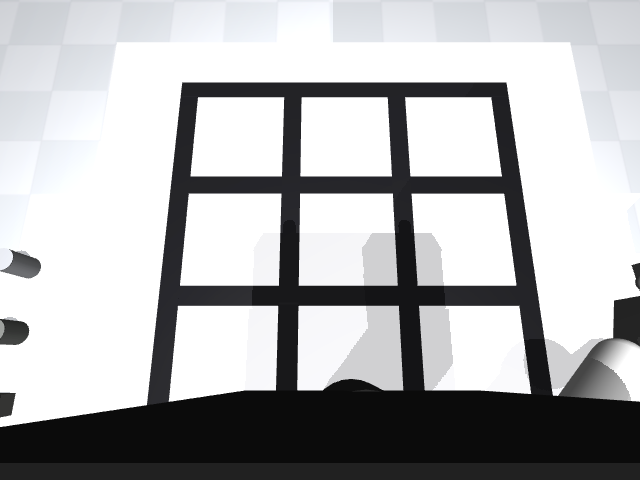
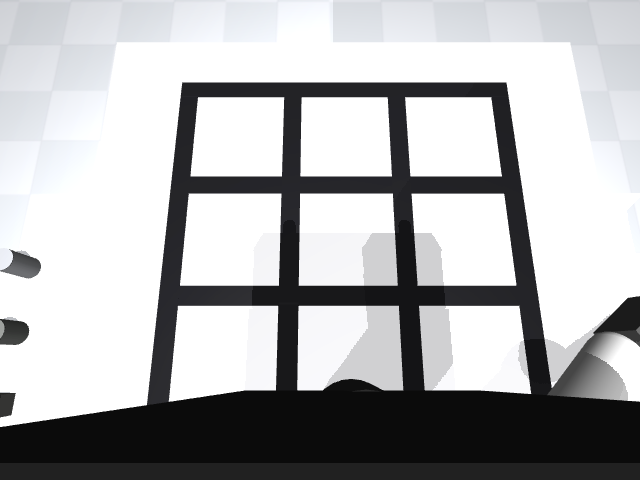
REST that stays shut; panel smoke; final evidence (#192)
The second October REST held its arm for the 10 s the search checked, but on
the live panel its gripper was at the open stop after 11 minutes: motors off,
the finger hangs open and creeps.  An open hand at rest is the wide hand the
footprint guard assumes away, so REST was searched a third time with a 120 s
gripper check: (10.5, 15, -55, -81, 84.5, -4.5, -17.5) holds shut for 10
minutes offline (rest_hold.py), and the forearm yaw is what keeps the finger
closed.  Column-3 footprint +1.8 / +12.0 / +20.8 cm.

LIFT/LOWER, WAVE and POINT re-flown from it (nothing moved), the REST-
dependent test values re-measured, the evidence regenerated, and the panel
smoke recorded (startup at REST, stow, wave, point; Reachy-Lab
trial-2026-10-18-issue192-panel-smoke).  place_sweep's report states its
cell count instead of a hard-coded "seven".

Changed region(s): [[0.8438, 0.625, 1.0, 0.8438], [0.9688, 0.5312, 1.0, 0.5938], [0.8125, 0.7188, 0.8438, 0.7812]]

diff --git a/src/reachy_ai/motion/rig_routes.py b/src/reachy_ai/motion/rig_routes.py
@@ -118,23 +118,28 @@ def pose(**kw) -> Dict[str, float]:
 # ── REST, October layout (#192) ──────────────────────────────────────────────
 #
 # The hand rests on the board's RIGHT MARGIN, outside the taped grid, as the
-# lab photos show the real gripper doing: on its palm and back, fingers at the
-# board's edge (tip at about (0.37, -0.37) in the scene; the outer tape border
-# is at y = -0.2286, the board's edge at -0.349), with the forearm along the
-# margin.
+# lab photos show the real gripper doing: on its palm and back, fingertips just
+# over the board's edge (tip at about (0.34, -0.40) in the scene; the outer
+# tape border is at y = -0.2286, the board's edge at -0.349), with the forearm
+# along the margin.
 #
 # FOUND BY LETTING GO OF THE ARM, NOT BY CHOOSING A POSE.  The arm is stored
 # here and the simulator starts here with the motors off, exactly like the
 # robot, so REST has to be a pose the arm STAYS in when nothing holds it.  An IK
 # pose on the margin with the elbow swung out slid off the board's edge in two
 # seconds.  This one is a settled pose: dropped motors-off in MuJoCo from many
-# starts on the margin, kept only where a second drop moved it by under 2 deg
-# and the gripper stayed shut, then scored against a soda can, blue cylinder,
-# red cube, pool cylinder, foam block and pool box standing on each column-3
-# cell.  Motors off for 10 s from here: under 1.3 deg of drift on any arm
-# joint, the gripper 3 deg off shut, and still.  The wrist roll rests on its
-# stop (44 deg, 1 deg inside); the shoulder roll does NOT lean on the +20.3 deg
-# stop (docs/adr/0010), so REST does not depend on that deviation.
+# starts on the margin, kept only where a second drop moved it by under 2 deg,
+# then dropped again for 120 s and kept only where the GRIPPER STAYED SHUT,
+# then scored against a soda can, blue cylinder, red cube, pool cylinder, foam
+# block and pool box standing on each column-3 cell.  Motors off for 10
+# minutes from here: the gross joints drift at most 1.3 deg, the gripper stays
+# on its shut stop, and the arm is still.  The forearm yaw (84.5 deg) is what
+# holds the hand shut: it turns the hand so gravity closes the finger.  A
+# REST whose finger hangs open creeps open over minutes (one did: +18 deg at
+# 5 s, -15 at 120 s, the open stop by 11 minutes), and an open hand on the
+# margin is the wide hand the footprint guard below assumes away.  The
+# shoulder roll does NOT lean on the +20.3 deg stop (docs/adr/0010), so REST
+# does not depend on that deviation.
 #
 # WITH THE HAND'S COLLISION BOXES (#192).  The first October REST rested on
 # the finger pad, and the hand's visual shell sank 38 mm into the board,
@@ -149,15 +154,15 @@ def pose(**kw) -> Dict[str, float]:
 #
 #     the footprint guard's own number (`footprint.route_footprint_clearances`,
 #     every leg of LOWER_TO_REST and LIFT_TO_PRESENT), one object on the cell:
-#         r1c3 +2.6 cm   r2c3 +7.4 cm   r3c3 +13.2 cm   (worst of six objects)
+#         r1c3 +1.8 cm   r2c3 +12.0 cm   r3c3 +20.8 cm   (worst of six objects)
 #     the August REST and its routes, at the August mount, same objects:
 #         r1c3 +2.3 cm   r2c3 -5.7 cm   r3c3 -9.4 cm    (every r2c3/r3c3 refused;
 #                                                      pool_box_3 on r2c3: -3.7)
 #
 # Numbers and the search: docs/reviews/2026-10-17-october-layout-192/.
-REST = pose(r_gripper=SHUT, r_shoulder_pitch=12.0, r_shoulder_roll=14.0,
-            r_arm_yaw=-54.5, r_elbow_pitch=-81.0, r_forearm_yaw=-5.5,
-            r_wrist_pitch=-21.5, r_wrist_roll=44.0)
+REST = pose(r_gripper=SHUT, r_shoulder_pitch=10.5, r_shoulder_roll=15.0,
+            r_arm_yaw=-55.0, r_elbow_pitch=-81.0, r_forearm_yaw=84.5,
+            r_wrist_pitch=-4.5, r_wrist_roll=-17.5)
 #: REST already has the hand shut.  The name is kept for callers that mean
 #: "rest, closed", and it is the same pose.
 REST_SHUT = REST
@@ -401,7 +406,7 @@ ROUTE_COMPATIBILITY: Tuple[RouteValidation, ...] = (
         "red_cube or blue_cylinder / soda_can / foam_block standing on r1c3 / "
         "r2c3 / r3c3, and as the approach of every WAVE and POINT flight "
         "below (12 flights). Arrived within 1.0 deg on the gross joints; no "
-        "object moved (0.0 mm); worst MJCF distance to any of them 2.7 cm "
+        "object moved (0.0 mm); worst MJCF distance to any of them 1.8 cm "
         "(blue_cylinder on r1c3). Only robot contacts: the forearm and the "
         "hand's palm and back on table_top, leaving REST.",
         mount=MOUNT_OCTOBER,
@@ -410,9 +415,10 @@ ROUTE_COMPATIBILITY: Tuple[RouteValidation, ...] = (
         "LOWER_TO_REST", "FWDCenterLabSivaPool",
         "2026-10-18 (#192, offline physics): PRESENT -> PRESENT_SHUT -> "
         "REST_OUT -> REST, the same layouts as LIFT_TO_PRESENT and the return "
-        "of every WAVE and POINT flight (12 flights). Arrived within 0.2 deg; "
-        "no object moved (0.0 mm); worst MJCF distance 2.7 cm. Only robot "
-        "contacts: the forearm and palm coming to rest on table_top.",
+        "of every WAVE and POINT flight (12 flights). Arrived within 0.3 deg; "
+        "no object moved (0.0 mm); worst MJCF distance 1.9 cm (blue_cylinder "
+        "on r1c3). Only robot contact: the forearm coming to rest on "
+        "table_top.",
         mount=MOUNT_OCTOBER,
     ),
     RouteValidation(
@@ -441,10 +447,12 @@ ROUTE_COMPATIBILITY: Tuple[RouteValidation, ...] = (
         "r1c1, r1c2 and r2c2); cell_r1c2 refused three times by the guard "
         "(foam_block: 4.8 cm on leg 5 of 6 under the 5 cm margin; "
         "blue_cylinder and soda_can before any motion). The object itself: "
-        "3 of 6 (the boxes, miss 0.6 cm); the three cylinders were stopped "
-        "by the escort's realised check on leg 6, the tube hand reading 0.1 "
-        "to 0.6 cm inside the object while the MJCF hand was 2.9 to 3.1 cm "
-        "clear, then flown back to PRESENT. NOTHING MOVED in any of the 69 "
+        "4 of 6 (the boxes and blue_cylinder, miss 0.6 cm); pool_cyl_1 and "
+        "soda_can were stopped by the escort's realised check on leg 6, the "
+        "tube hand reading 0.1 and 0.3 cm inside the object while the MJCF "
+        "hand was 3.0 to 3.1 cm clear, then flown back to PRESENT (an earlier "
+        "flight from the previous REST stopped blue_cylinder the same way, at "
+        "0.6 cm). NOTHING MOVED in any of the 69 "
         "pointings (0.0 mm), and the arm touched nothing but table_top at "
         "REST. TWO OR MORE OBJECTS IS NOT COVERED, and `_ability_available` "
         "still enforces that. August, for comparison: 8 of 9 empty-board "

diff --git a/tests/unit/test_arm_geometry_mjcf.py b/tests/unit/test_arm_geometry_mjcf.py
@@ -303,10 +303,10 @@ class TestTubeCoversMJCFHand:
     def test_the_tube_is_the_pose_own_roll_not_the_worst(self):
         """link_capsules sizes the tube for the pose's actual wrist roll."""
         present = [R.PRESENT[j] for j in R.ARM7]   # roll 0
-        rest = [R.REST[j] for j in R.ARM7]         # roll 44 (#192)
+        rest = [R.REST[j] for j in R.ARM7]         # roll -17.5 (#192)
         assert _tube(present, -45.0)[2] == pytest.approx(hand_radius(-45.0, 0.0))
-        assert _tube(rest, -45.0)[2] == pytest.approx(hand_radius(-45.0, 44.0))
-        assert _tube(rest, -45.0)[2] > _tube(present, -45.0)[2]
+        assert _tube(rest, -45.0)[2] == pytest.approx(hand_radius(-45.0, -17.5))
+        assert _tube(rest, -45.0)[2] != pytest.approx(_tube(present, -45.0)[2])
 
 
 class TestDemonstratedMisses:
@@ -319,7 +319,7 @@ class TestDemonstratedMisses:
     what was being flown through is not lost, and is not asserted.  The
     misses depend on the wrist roll, not the mount: the roll-0 rows were
     measured at HOVER (August, retired with #192) and hold for PRESENT, which
-    has the same roll; the October REST (roll 44) was never in the old tube's
+    has the same roll; the October REST (roll -17.5) was never in the old tube's
     era, so its rows carry None.
     """
 
@@ -466,15 +466,15 @@ class TestTubeVsShellsCapsules:
     which capsule is widest at any of these poses.
     """
 
-    # #192: the October REST has wrist roll 44 (August's had 30: -1.1946,
+    # #192: the October REST has wrist roll -17.5 (August's had 30: -1.1946,
     # -0.8424, -0.4704, -0.4704); the roll-0 rows were HOVER's and are
     # PRESENT's, unchanged.
     @pytest.mark.parametrize("posture,gripper_deg,expected_surface_cm", [
-        ("REST", -68.8, -1.1972),
-        ("REST", -45.0, -0.8457),
-        ("REST", 0.0, -0.5122),
-        ("REST", 20.0, -0.5122),
-        ("REST_OUT", -68.8, -1.1972),
+        ("REST", -68.8, -1.1803),
+        ("REST", -45.0, -0.8239),
+        ("REST", 0.0, -0.1748),
+        ("REST", 20.0, -0.1748),
+        ("REST_OUT", -68.8, -1.1803),
         ("PRESENT", -68.8, -1.1864),
         ("PRESENT", -45.0, -0.8320),
         ("PRESENT", 0.0, -0.3182),

diff --git a/tests/unit/test_footprint_boards.py b/tests/unit/test_footprint_boards.py
@@ -135,22 +135,22 @@ class TestNamedBoards:
     @pytest.mark.parametrize("objects,oid,expected_tube_cm,expected_shells_cm", [
         pytest.param(
             {"soda_can": _cell_xy("cell_r1c1"), "foam_block": _cell_xy("cell_r2c3")},
-            "foam_block", +7.403, +14.067, id="evidence_board"),
+            "foam_block", +12.049, +13.100, id="evidence_board"),
         pytest.param(
             {"foam_block": (_cell_xy("cell_r2c3")[0], _cell_xy("cell_r2c3")[1] - 0.07)},
-            "foam_block", +0.610, +8.044, id="incident_board"),
+            "foam_block", +7.737, +8.483, id="incident_board"),
         pytest.param(
             {"foam_block": _cell_xy("cell_r3c3")},
-            "foam_block", +13.176, +21.320, id="foam_on_r3c3"),
+            "foam_block", +23.753, +23.753, id="foam_on_r3c3"),
         pytest.param(
             {"soda_can": _cell_xy("cell_r2c3")},
-            "soda_can", +8.344, +12.837, id="soda_can_on_r2c3"),
+            "soda_can", +12.837, +12.837, id="soda_can_on_r2c3"),
         pytest.param(
             {"pool_box_1": _cell_xy("cell_r2c3")},
-            "pool_box_1", +9.221, +16.160, id="pool_box_1_on_r2c3"),
+            "pool_box_1", +14.170, +15.215, id="pool_box_1_on_r2c3"),
         pytest.param(
             {"pool_cyl_1": _cell_xy("cell_r2c3")},
-            "pool_cyl_1", +9.644, +16.262, id="pool_cyl_1_on_r2c3"),
+            "pool_cyl_1", +14.999, +16.000, id="pool_cyl_1_on_r2c3"),
     ])
     def test_worst_clearance_under_the_corrected_tube(
             self, objects, oid, expected_tube_cm, expected_shells_cm):
@@ -461,5 +461,5 @@ class TestSweepOrdering:
         # most ~0.05 cm here, well under the 1 cm threshold.
         # On the October lowering (#192; August's PLACE_ROUTE tail read 189
         # and 12.96 cm).
-        assert sum(1 for g in ts_gaps if g < -0.01) == 123
-        assert max(-g for g in tr_gaps) == pytest.approx(0.0943, abs=0.003)
+        assert sum(1 for g in ts_gaps if g < -0.01) == 18
+        assert max(-g for g in tr_gaps) == pytest.approx(0.0335, abs=0.003)

diff --git a/tools/place_sweep/__main__.py b/tools/place_sweep/__main__.py
@@ -54,14 +54,14 @@ def sweep_one(oid: str, origin: str, dest: str):
     return row
 
 
-def report(rows, sha):
+def report(rows, sha, n_cells=None):
     today = datetime.date.today().isoformat()
     out = [f"# Issue #174 offline feasibility sweep — placement ({today})", "",
            f"reachy-1-2-sim at `{sha or 'worktree'}`.  Preflight only "
            "(`crane_place_live.plan_crane_place`): no motion, no simulator.  IK: the host "
            "mirror of the simulator's service.  Scene FWDCenterLabSivaPool, the object upright "
-           "at the origin cell's centre, nothing else on the board.  Reachable cells: the seven "
-           "without the `no-right-arm` tag.", ""]
+           "at the origin cell's centre, nothing else on the board.  Reachable cells: the "
+           f"{n_cells if n_cells is not None else 'ones'} without the `no-right-arm` tag.", ""]
     for oid in sorted({r["object"] for r in rows}, key=lambda o: OBJECTS.index(o)):
         mine = [r for r in rows if r["object"] == oid]
         ok = [r for r in mine if r["feasible"]]
@@ -101,7 +101,7 @@ def main(argv=None) -> int:
                 print(f"{oid} {r['from']}->{r['to']}: "
                       f"{'FEASIBLE' if r['feasible'] else r['at'] + ' ' + r['stage'] + ': ' + r['reason']}"
                       f" ({r['seconds']} s)", flush=True)
-    pathlib.Path(a.out).write_text(report(rows, a.sha))
+    pathlib.Path(a.out).write_text(report(rows, a.sha, len(cells)))
     if a.json:
         pathlib.Path(a.json).write_text(json.dumps(rows, indent=1, default=str))
     return 0

diff --git a/docs/reviews/2026-10-17-october-layout-192/rest_hold.py b/docs/reviews/2026-10-17-october-layout-192/rest_hold.py
@@ -1,0 +1,20 @@
+"""REST held motors-off for 10 minutes: the arm stays, and so does the shut gripper.
+
+The second REST search kept fixed points over 10 s; one of them was found on
+the live panel with its gripper at the open stop after 11 minutes (its finger
+hangs open).  Every candidate was then held for 120 s, and REST is checked
+here over 600 s.
+
+    PYTHONPATH=src python3 docs/reviews/2026-10-17-october-layout-192/rest_hold.py .
+"""
+import pathlib, sys
+import numpy as np
+S = pathlib.Path(__file__).parent; sys.path.insert(0, str(S))
+from settle import World, NAMES
+REPO = pathlib.Path(sys.argv[1]); w = World(REPO)
+from reachy_ai.motion import rig_routes as R
+q = [R.REST[n] for n in NAMES]
+for seconds in (10.0, 120.0, 600.0):
+    q1, cons, tip, sp = w.settle(q[:7], grip=R.SHUT, seconds=seconds)
+    print(f"{seconds:5.0f} s motors off: drift", np.round(np.array(q1) - np.array(q), 1).tolist(),
+          "tip", np.round(tip, 3).tolist(), "speed", round(sp, 4), "contacts", cons, flush=True)

diff --git a/tests/unit/test_e1_boards.py b/tests/unit/test_e1_boards.py
@@ -33,12 +33,12 @@ _ROBOT_MODEL = os.path.join(_HERE, "../../native_mujoco/model/reachy_1_2.xml")
 #: B4 -3.719 / 6.258, B5 -3.079 / 5.936, B3 -4.379 / 4.535,
 #: B1 -5.699 / 4.479, B2 -9.369 / 2.106, B6 -11.944 / -2.414.
 _FIXTURE_TABLE = {
-    "B4_pool_box_1_r2c3": ("pool_box_1", 9.221, 16.160),
-    "B5_pool_cyl_1_r2c3": ("pool_cyl_1", 9.644, 16.262),
-    "B3_soda_can_r2c3": ("soda_can", 8.344, 12.837),
-    "B1_evidence": ("foam_block", 7.403, 14.067),
-    "B2_foam_r3c3": ("foam_block", 13.176, 21.320),
-    "B6_incident": ("foam_block", 0.610, 8.044),
+    "B4_pool_box_1_r2c3": ("pool_box_1", 14.170, 15.215),
+    "B5_pool_cyl_1_r2c3": ("pool_cyl_1", 14.999, 16.000),
+    "B3_soda_can_r2c3": ("soda_can", 12.837, 12.837),
+    "B1_evidence": ("foam_block", 12.049, 13.100),
+    "B2_foam_r3c3": ("foam_block", 23.753, 23.753),
+    "B6_incident": ("foam_block", 7.737, 8.483),
 }
 
 

diff --git a/tests/unit/test_arm_clearance.py b/tests/unit/test_arm_clearance.py
@@ -371,11 +371,11 @@ class TestSceneClearance:
         assert "table_top" not in fixtures and fixtures
         assert scene.clearance(caps, ids=fixtures).distance > 0.02
         # The manipulable objects are a separate question.  This scene's
-        # red_cube stands on r1c3, beside REST's forearm: 2.7 cm, positive.
+        # red_cube stands on r1c3, beside REST's forearm: 1.9 cm, positive.
         # (August REST, hand open: 1.6 cm, the hand.)
         near = scene.clearance(caps)
         assert near.link == "forearm" and near.object_id == "red_cube"
-        assert near.distance == pytest.approx(0.027, abs=0.003)
+        assert near.distance == pytest.approx(0.019, abs=0.003)
 
     def test_no_obstacles_reports_nothing(self, scene):
         assert scene.clearance(link_capsules(PRESENT), ids=[]) is None

diff --git a/tests/integration/test_panel_ability_recipes.py b/tests/integration/test_panel_ability_recipes.py
@@ -177,9 +177,11 @@ def test_the_panel_routes_make_no_unintended_contact(ability):
                                             if not j.allowed]
     made = {(j.sample.body1, j.sample.body2, j.sample.pose) for j in judged}
     if ability in ("rest_forearm", "stow_arm"):
+        # The forearm lands on the margin; the hand settles onto its palm
+        # only once the motors are off, which a flown route does not do.
         assert made <= {("r_forearm", "table_top", "rest"),
                         ("r_gripper_thumb", "table_top", "rest")}
-        assert ("r_gripper_thumb", "table_top", "rest") in made
+        assert ("r_forearm", "table_top", "rest") in made
     else:
         assert made == set()
 

diff --git a/tests/unit/test_pick_place_preflight.py b/tests/unit/test_pick_place_preflight.py
@@ -51,9 +51,9 @@ def _rest_hand_xy():
 
 
 #: A place on the board's right margin, beside the grid, that the lowering to
-#: REST passes through (-4.7 cm, the hand): a placement there leaves the stow
+#: REST passes through (-2.7 cm, the hand): a placement there leaves the stow
 #: nowhere to go.
-_IN_THE_STOW = (0.38, -0.27)
+_IN_THE_STOW = (0.35, -0.30)
 
 
 # ── the three places a job can be refused ───────────────────────────────────

diff --git a/tests/unit/test_stow_from_side.py b/tests/unit/test_stow_from_side.py
@@ -185,7 +185,7 @@ def test_every_pose_it_commands_is_a_whole_route_pose():
 #: measured, so a change to it is visible.  August, out of the rail pocket:
 #: 2.57 cm (the upper arm on SWING_3 -> HOVER).  October (#192): the rails are
 #: behind the arm.
-_ROUTE_RIG_CM = 5.85
+_ROUTE_RIG_CM = 9.45
 
 
 def _rig_ids(model):

diff --git a/docs/adr/0010-october-layout.md b/docs/adr/0010-october-layout.md
@@ -64,13 +64,16 @@ Siva confirms the arm rests on the table, as in the lab photos. So REST is where
 **REST is a pose the arm stays in with the motors off.** That matters because the sim starts with the motors off, exactly like the robot.
 - An IK pose on the margin with the elbow swung out slid off the board's edge within two seconds.
 - So REST was found by letting go: the arm was dropped motors-off in MuJoCo from many starts on the margin.
-- Only fixed points were kept: poses that a second drop moved by less than 2°, with the gripper still shut (at least 15°).
+- Only fixed points were kept: poses that a second drop moved by less than 2°, and then only those whose gripper was still on its shut stop after a 120 s drop.
 - They were then scored against six objects, up to the 12.2 cm soda can, standing on each column-3 cell, by the footprint guard's own number.
-- The chosen pose: joints (12, 14, −54.5, −81, −5.5, −21.5, 44), gripper shut. The hand rests on its palm and back on the board's right margin, fingers at the board's edge (tip at about (0.37, −0.37); the grid's outer border is at y = −0.2286, the board's edge at −0.349), with the forearm along the margin.
-- Motors off for 10 s from there: at most 1.2° of drift on any arm joint, the gripper 3° off shut, and the arm is still.
-- The wrist roll rests on its stop (44°). The shoulder roll does not lean on the new +20.3° stop: the search's best scores did, and were passed over so REST does not depend on that deviation.
+- The chosen pose: joints (10.5, 15, −55, −81, 84.5, −4.5, −17.5), gripper shut. The hand rests on its palm and back on the board's right margin, fingertips just over the board's edge (tip at about (0.35, −0.40); the grid's outer border is at y = −0.2286, the board's edge at −0.349), with the forearm along the margin.
+- Motors off for 10 minutes from there: the gross joints drift at most 1.3°, the gripper stays on its shut stop, and the arm is still. The forearm yaw (84.5°) is what holds the hand shut: it turns the hand so gravity closes the finger.
+- The shoulder roll does not lean on the new +20.3° stop: the search's best scores did, and were passed over so REST does not depend on that deviation.
 
-**REST was searched twice.** The first October REST (13.5, 13.5, −55, −81, −74, 44, 44) rested on the finger pad, because the hand had no collision geometry but the two pads, and its visual shell sank 38 mm into the board. With the hand boxes (section 6) the hand rests on them instead; that pose no longer stayed put (the wrist roll fell 35°, the gripper fell open), so REST was searched again.
+**REST was searched three times.**
+1. The first October REST (13.5, 13.5, −55, −81, −74, 44, 44) rested on the finger pad, because the hand had no collision geometry but the two pads, and its visual shell sank 38 mm into the board.
+2. With the hand boxes (section 6) the hand rests on them instead. That pose no longer stayed put, so REST was searched again: (12, 14, −54.5, −81, −5.5, −21.5, 44). It held for the 10 s the search checked, but on the live panel the gripper was found at its open stop after 11 minutes (offline: +18° at 5 s, −15° at 120 s). Its finger hangs open, and the motors are off.
+3. The third search added the 120 s gripper check. An open hand on the margin is the wide hand the footprint guard assumes away, so a REST whose gripper creeps open is wrong even though the arm stays put.
 
 **The gripper is shut at REST.** The footprint guard sizes the hand to its aperture. An open hand's tube (8–11.5 cm radius) on a 10.8 cm margin reaches column 3 whatever the arm does; shut, it is 3.9–6.7 cm. `FOOTPRINT_MARGIN` is unchanged: the arm lands somewhere else; the rule did not move.
 
@@ -81,9 +84,11 @@ Siva confirms the arm rests on the table, as in the lab photos. So REST is where
 
 **Validation, offline physics** (the simulator's MuJoCo model and contact settings, the arm streamed with the motors on, no server, SDK or bridge). Flown with tall objects on r1c3, r2c3 and r3c3, and as the approach and return of every WAVE and POINT flight (section 7):
 - no object moved;
-- the worst MJCF distance was 2.7 cm;
+- the worst MJCF distance was 1.8 cm (blue_cylinder on r1c3);
 - the arm arrived within 1°;
 - the only robot contacts were the forearm and the hand's palm and back on the board, at REST.
+
+The footprint guard's own number, the worst of six objects on each column-3 cell: r1c3 +1.8, r2c3 +12.0, r3c3 +20.8 cm (August: +2.3, −5.7, −9.4).
 
 Route records carry the mount they were flown at, and `check_route` accepts only the current one.
 
@@ -116,7 +121,7 @@ What an SDK client sees differently:
 
 ### 6. The hand's collision model
 
-Two boxes fill the hand's visual shell (`r_thumb_body`) in `r_gripper_thumb`: `r_hand_back_col` (the wrist side) and `r_palm_col`, whose underside stays 5 mm above the pads' tops. They are in `r_gripper_thumb`, not `r_wrist2hand`, so they turn with wrist roll as the shell does (44° at REST). The R12-502 pads are unchanged.
+Two boxes fill the hand's visual shell (`r_thumb_body`) in `r_gripper_thumb`: `r_hand_back_col` (the wrist side) and `r_palm_col`, whose underside stays 5 mm above the pads' tops. They are in `r_gripper_thumb`, not `r_wrist2hand`, so they turn with wrist roll as the shell does (−17.5° at REST). The R12-502 pads are unchanged.
 
 **The pinch is unchanged** (`grasp_before_after.py`, the R12-502 fixture with and without the boxes): a 20 mm cube and a 40 mm cube (the gripper open at −45°), each centred at the pad height. Only the two pads touched the cube, the grasp held through the lift, and the grip force was identical with and without the boxes: 28.0 N at the close and 30.4 N at the lift for the 20 mm cube, 53.6 N and 85.8 N for the 40 mm cube.
 
@@ -129,7 +134,7 @@ At REST the visual shells now sit at the board (−0.6 mm and −3.2 mm, contact
 Flown offline from REST through the panel's own code (`rig_motion.travel`, `rig_motion.wave`, the motion worker's `_point_at_target`), with only the SDK's `goto` replaced by a minimum-jerk streamer (`fly_wave_point.py`).
 - **WAVE**, three layouts (tall objects on column 3 twice; a can on the centre cell with cylinders on r1c1 and r3c1): all three cycles every time, back at PRESENT within 1°, nothing moved, no contact during the wave, worst MJCF distance 3.6 cm.
 - **POINT, empty board:** all nine cells, miss 0.4–1.4 cm, nothing touched. August managed 8 of 9 (r3c1 out of reach), miss 2.2–8.8 cm.
-- **POINT, one object at a time on the centre cell** (six types), every cell and then the object: 57 of 60 cells pointed; r1c2 was refused three times by the guard (once mid-flight, twice before moving). Pointing at the object worked for the three boxes. The escort stopped the three cylinders after its last leg: the tube hand read 0.1–0.6 cm inside them while the MJCF hand was 3 cm clear. **Nothing moved in any of the 69 pointings.**
+- **POINT, one object at a time on the centre cell** (six types), every cell and then the object: 57 of 60 cells pointed; r1c2 was refused three times by the guard (once mid-flight, twice before moving). Pointing at the object worked for the three boxes and blue_cylinder. The escort stopped pool_cyl_1 and soda_can after its last leg: the tube hand read 0.1–0.3 cm inside them while the MJCF hand was 3 cm clear. **Nothing moved in any of the 69 pointings.**
 - Two or more objects on the board are still not covered, and `_ability_available` still refuses them.
 
 The rows are in `ROUTE_COMPATIBILITY`, for FWDCenterLabSivaPool and FWDCenterLabMCC. The panel's `wave`, `point_cell` and `point_object` abilities are available again, at `route_version` 2.
@@ -151,14 +156,14 @@ Removed from the code, with the mount they belong to:
 - **Reach.** All nine cells are reachable; `no-right-arm` was removed from r3c1 and r3c2.
 - **REST footprint.** Objects on column 3 no longer trigger REST refusals:
   - before, every object on r2c3 and r3c3 was refused (−3.1 to −9.4 cm), including #192's pool_box_3 on r2c3 at −3.7 cm;
-  - now the worst case is +2.6 cm (foam_block on r1c3, beside the forearm).
+  - now the worst case is +1.8 cm (blue_cylinder on r1c3, beside the forearm).
 - **The pocket is gone** from the code (section 8), not only from the posture graph.
 - **WAVE and POINT are validated again** at the October mount (section 7).
 - **The crane is not re-tuned.** `place_sweep` plans placements only from r3c2 now (it was r2c2), and the offline red_cube pick halts at the hover: the lateral correction it needs is past the 6 mm cap, and a wider cap does not make the placement clean. #192 lands without the red_cube live check; the re-tune is a follow-up issue.
 - **Other scenes.** The move is global. Measured by dropping the start keyframe, motors off, for 5 s (`other_scenes.py`):
-  - the three FWDCenterLab scenes: 1.2° of drift, recognised as REST.
-  - `tabletop_demo.yaml` and `tabletop.example.yaml`: their table is narrower (edge at y = ±0.33) and the hand slips off its edge; 8.2° of drift, just outside `posture_of`'s 8°, so the panel would not recognise a posture there. `primitives.raise_to_side` accepts it (12°), so `scripts/demo_pick_place.py` still starts.
-  - `control_panel.yaml` and the two calibration scenes: there is no table under REST, so the arm falls to a hang (tip at z 0.51), which is no named posture. `scripts/demo_control_panel.py` flies its own poses.
+  - the three FWDCenterLab scenes: 0.6° of drift, recognised as REST.
+  - `tabletop_demo.yaml` and `tabletop.example.yaml`: their table is narrower (edge at y = ±0.33), and the hand settles over its edge; 2.2° of drift, still recognised as REST.
+  - `control_panel.yaml` and the two calibration scenes: there is no table under REST, so the arm falls to a hang (tip at z 0.50), which is no named posture. `scripts/demo_control_panel.py` flies its own poses.
   - None of these scenes was re-tuned. The joint poses in `primitives.py` (OVER_RED, …) are the August tabletop_demo tuning.
 - **The kinematic backend** still starts at zero. It has no physics or panel, and its start pose is unchanged.
 

diff --git a/docs/reviews/2026-10-17-october-layout-192/README.md b/docs/reviews/2026-10-17-october-layout-192/README.md
@@ -8,7 +8,8 @@ Run everything from the repo root with `PYTHONPATH=src` (the physics scripts add
 |---|---|
 | `reach_cells.py` → `reach_cells.txt` | The per-cell reach table in `scenes/FWDCenterLabMCC.yaml`. `august` = torso (0, 0, 1.0) and the +10° roll stop. No argument = the MJCF as it is. |
 | `settle.py` | Motors-off settling of the right arm in the FWDCenterLabSivaPool world (used by the next two). |
-| `rest_search.py` | The REST search: random starts on the margin, dropped motors-off, fixed points kept (the gripper still shut), scored against tall objects on column 3. `rig_routes.REST` is the rounded member of a family it and a local search around its best off-stop points found (seeds 41-44 and 51-54). |
+| `rest_search.py` | The REST search: random starts on the margin, dropped motors-off, fixed points kept (the gripper still shut), scored against tall objects on column 3 (seeds 41-44, and a local search around its best off-stop points, 51-54).  Every fixed point was then dropped for 120 s, and only those whose gripper stayed on its shut stop were kept; `rig_routes.REST` is the rounded best of those, checked over a 10-minute drop. |
+| `rest_hold.py` → `rest_hold.txt` | REST held motors-off for 10 s, 120 s and 10 minutes: the arm and the shut gripper. |
 | `fly_rest.py` → `fly_rest.txt` | REST motors-off (10 s) and motors-on (5 s), then LOWER_TO_REST and LIFT_TO_PRESENT flown with tall objects standing on column 3. |
 | `fly_wave_point.py` → `fly_wave.jsonl`, `fly_point/*.jsonl`, `fly_point.txt` | WAVE and POINT through the panel's own code, from REST and back (`fly_point_summary.py` prints `fly_point.txt`). |
 | `grasp_before_after.py` → `.txt` | The R12-502 pinch with and without the hand's collision boxes: robot geoms touching the cube, grip force. |
@@ -30,15 +31,15 @@ Run everything from the repo root with `PYTHONPATH=src` (the physics scripts add
   | | r1c3 | r2c3 | r3c3 |
   |---|---|---|---|
   | August | +2.3 | −5.7 | −9.4 |
-  | October | +2.6 | +7.4 | +13.2 |
+  | October | +1.8 | +12.0 | +20.8 |
 
   Every r2c3 and r3c3 case was refused in August; #192's pool_box_3 on r2c3 reproduces at −3.7 cm.
 - **REST in physics.**
-  - Motors off for 10 s: at most 1.2° of drift on an arm joint, the gripper 3° off shut, and still.
-  - Lower and lift with tall objects on column 3: 0.0 mm moved, worst MJCF distance 2.7 cm.
+  - Motors off for 10 minutes: at most 1.3° of drift on a gross joint, the gripper on its shut stop, and still.  (The second REST held for 10 s but its gripper crept open over minutes; found on the live panel.)
+  - Lower and lift with tall objects on column 3: 0.0 mm moved, worst MJCF distance 1.8 cm.
 - **The hand's collision boxes.** Pads-only contact on a 20 mm and a 40 mm cube, grip force identical with and without them (28.0 / 53.6 N at the close). The visual shells at REST: −0.6 and −3.2 mm (contact depth), from −38.6 and −24.6 mm.
 - **WAVE:** three layouts, three cycles each, nothing moved, no contact, worst 3.6 cm.
-- **POINT:** empty board 9/9 cells (miss 0.4–1.4 cm); one object on the centre cell, 57/60 cells and 3/6 objects (the rest refused or stopped by the guard); nothing moved in any of the 69.
+- **POINT:** empty board 9/9 cells (miss 0.4–1.4 cm); one object on the centre cell, 57/60 cells and 4/6 objects (the rest refused or stopped by the guard); nothing moved in any of the 69.
 - **Board view.**
   - Neck (0, 64.0, 0): all nine cells inside both frames, with a 66 px worst margin (pinhole).
   - The chest box hides the near tape border and about the bottom quarter of the near row.
